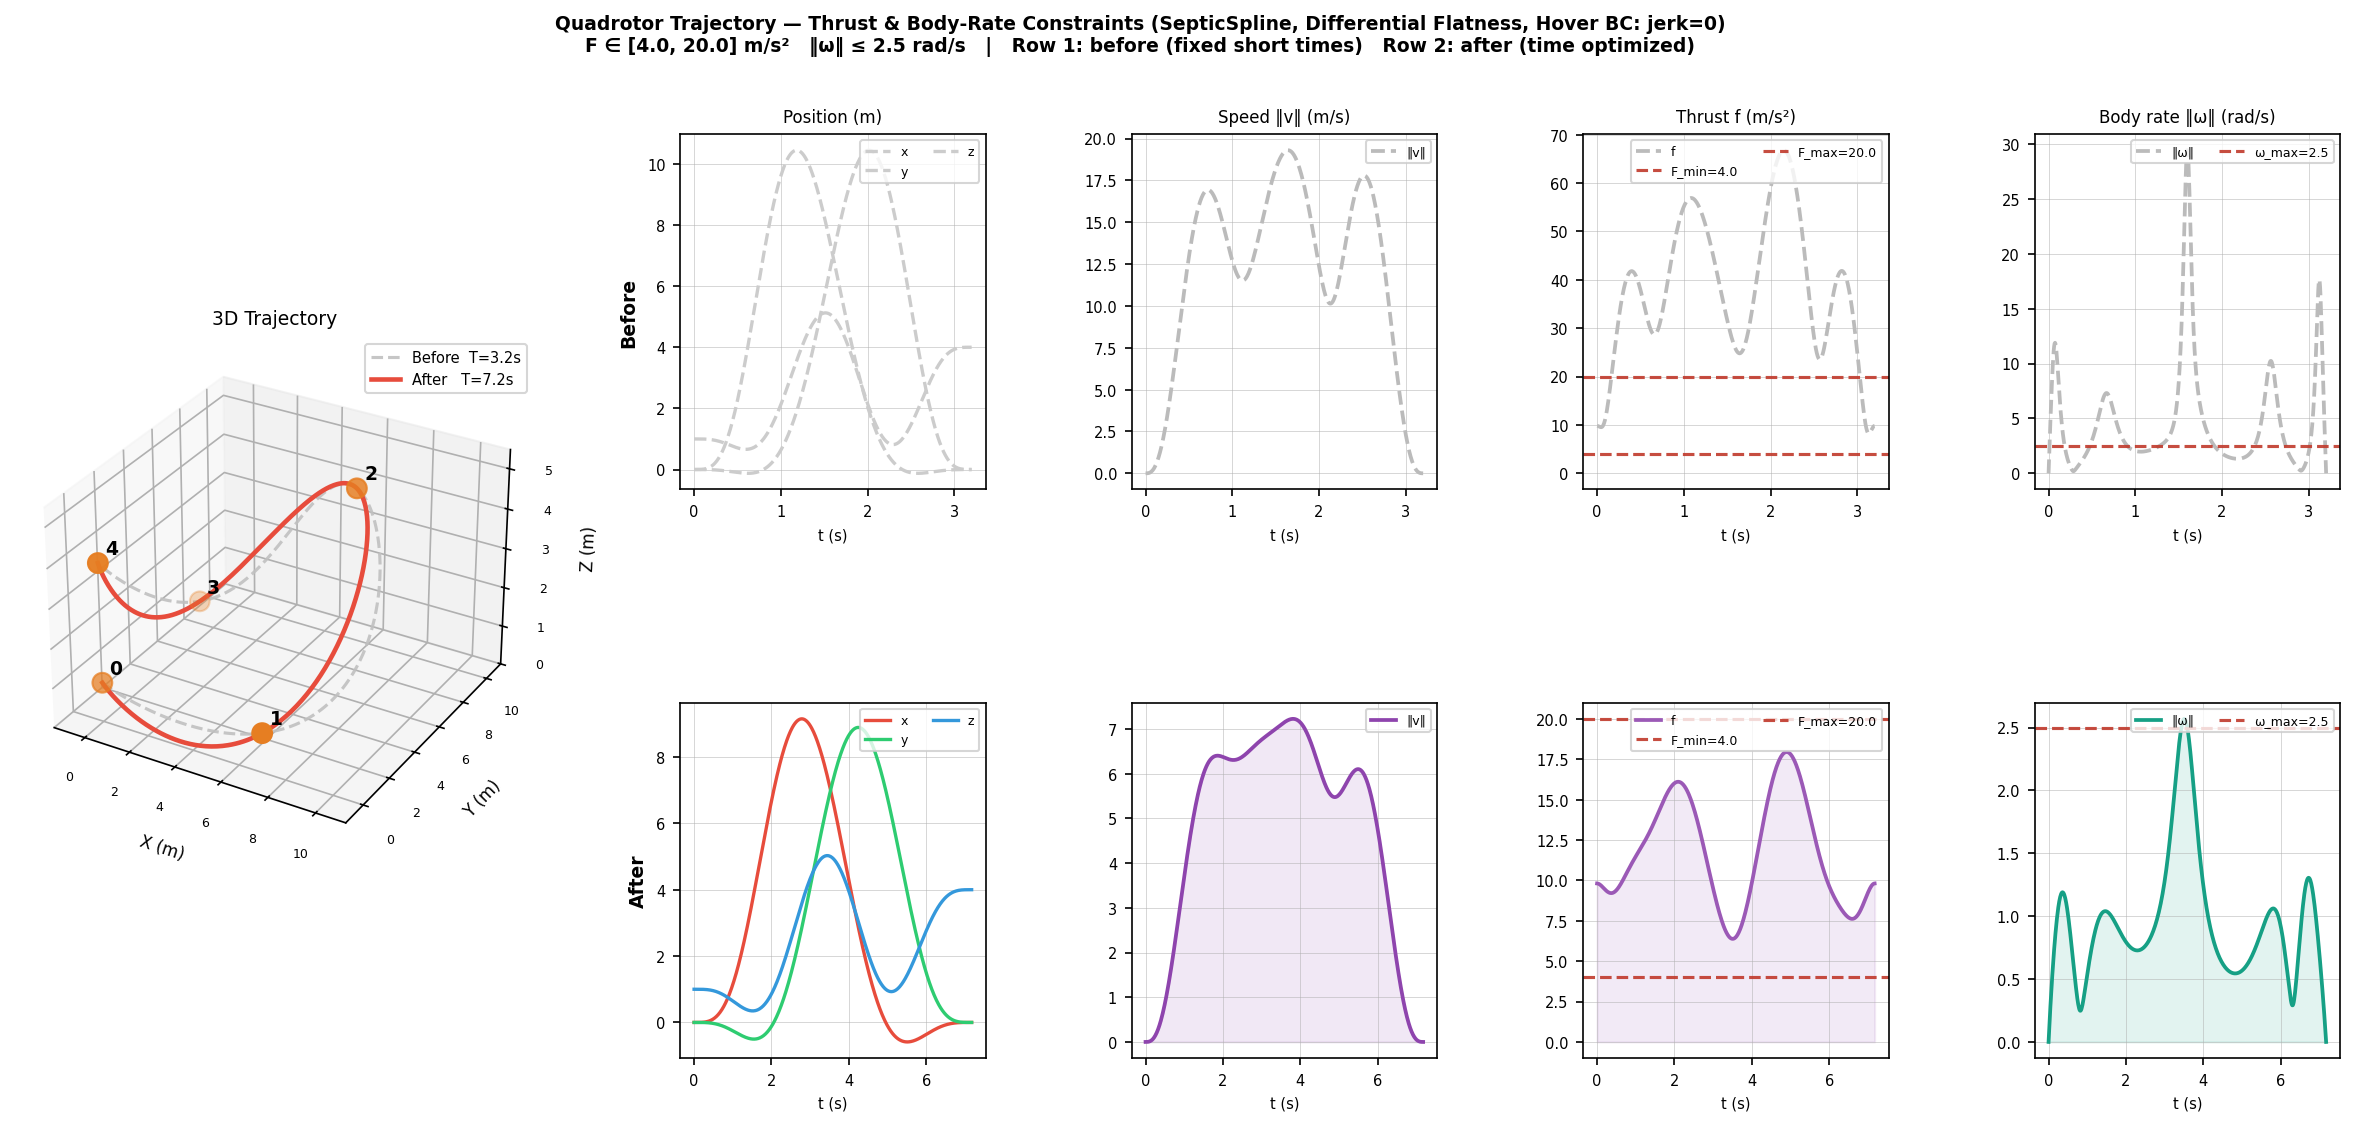
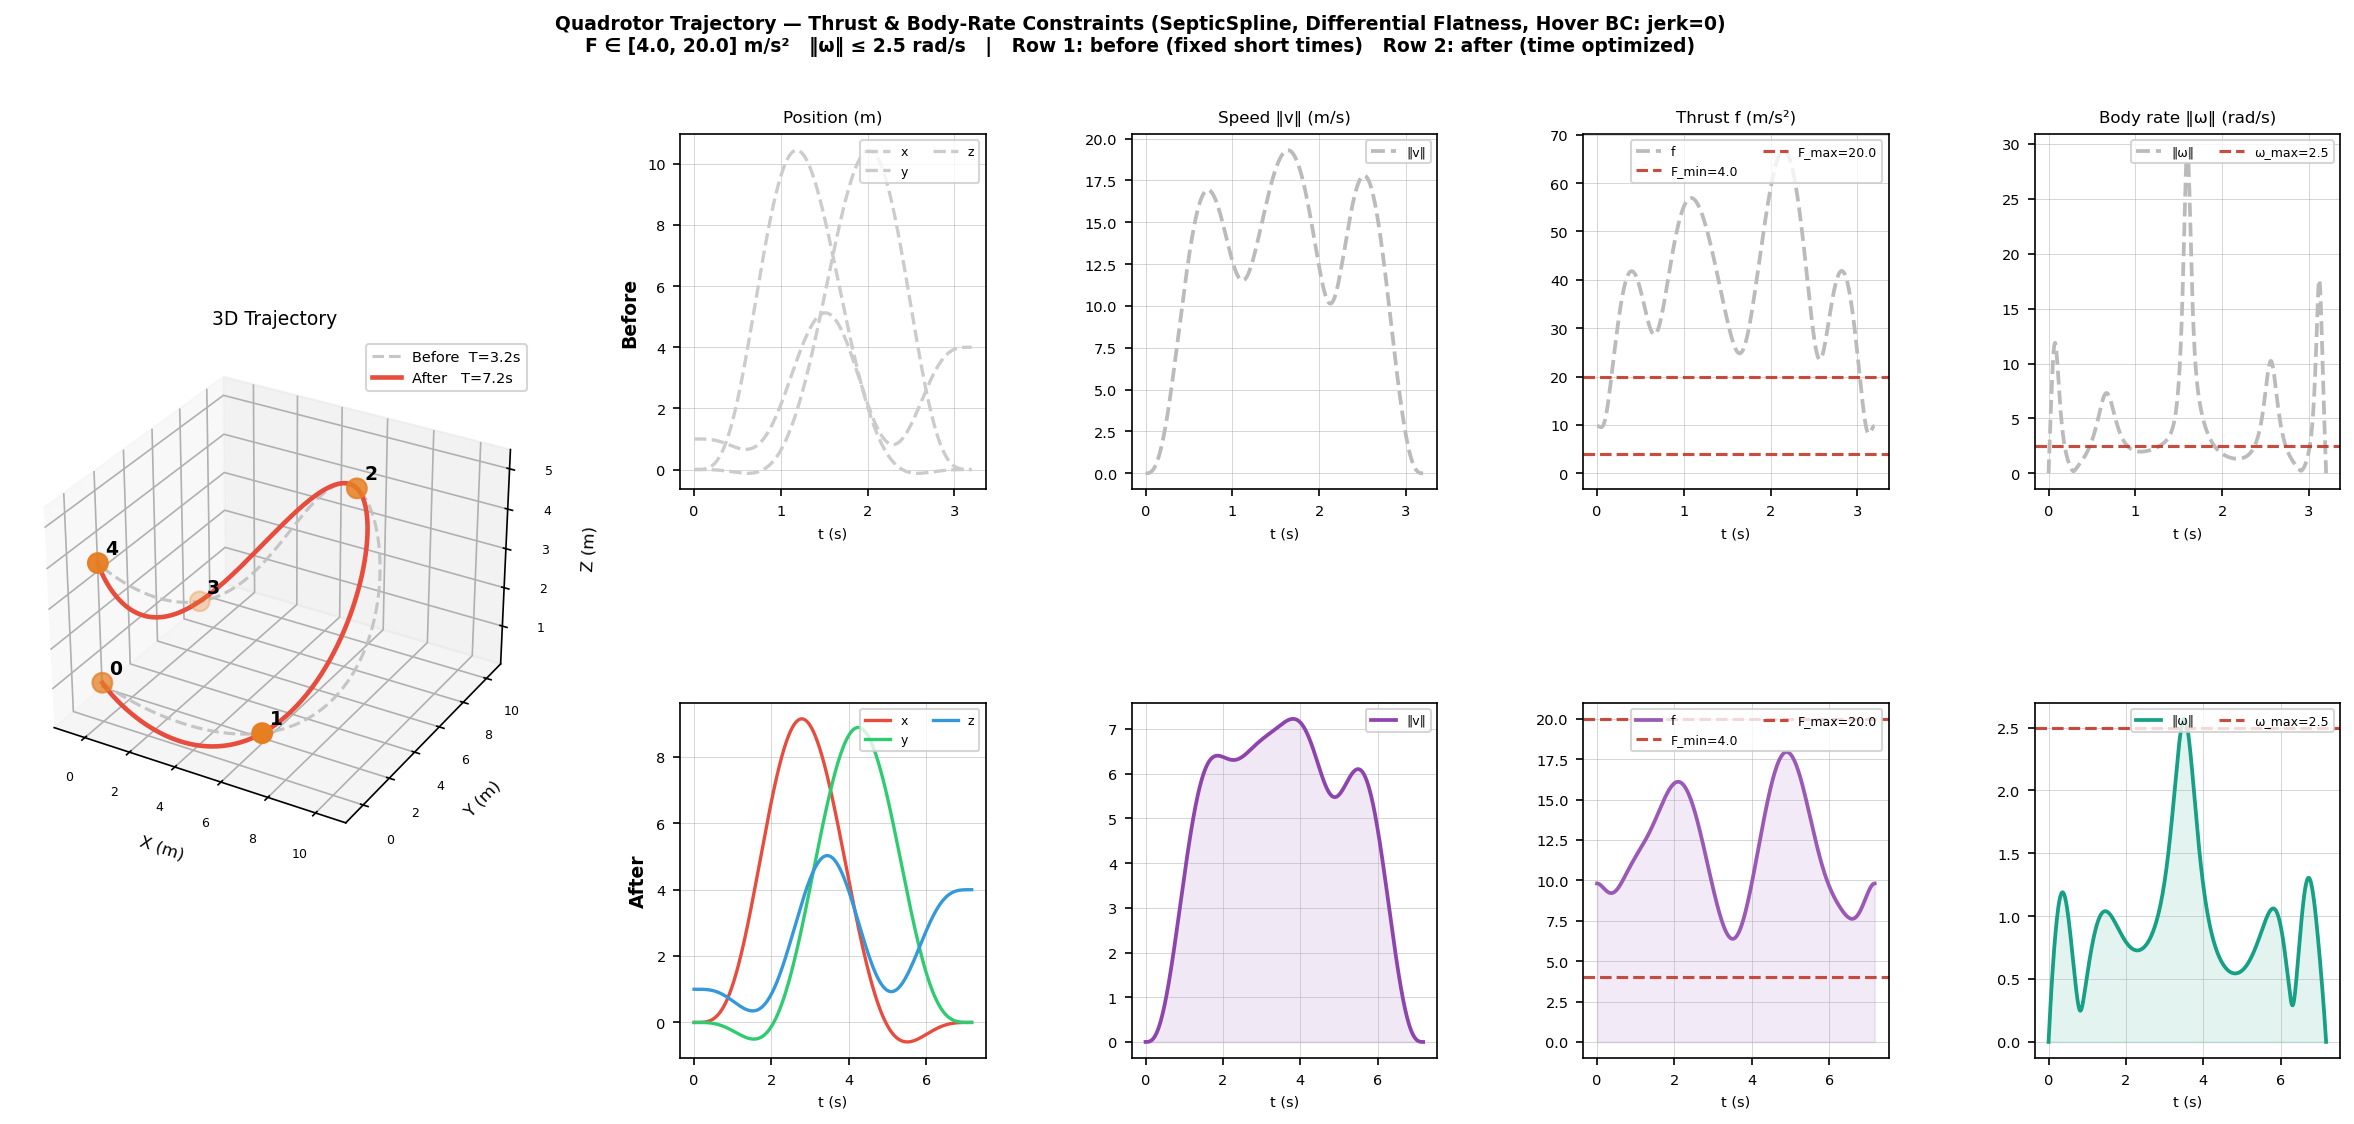
[fea] push to fix the pypi action bug

diff --git a/include/SplineOptimizer.hpp b/include/SplineOptimizer.hpp
@@ -2500,7 +2500,7 @@ namespace SplineTrajectory
                 grad_times(i) += local_acc_gdT;
                 buffers.global_time_grad_buffer(i) += local_acc_explicit_time_grad;
 
-                grad_coeffs.template block(base_row, 0, SplineType::COEFF_NUM, DIM) += local_acc_gdC;
+                grad_coeffs.block(base_row, 0, SplineType::COEFF_NUM, DIM) += local_acc_gdC;
             });
 
             for(int i = 0; i < ctx.prepared.num_segments; ++i) {
